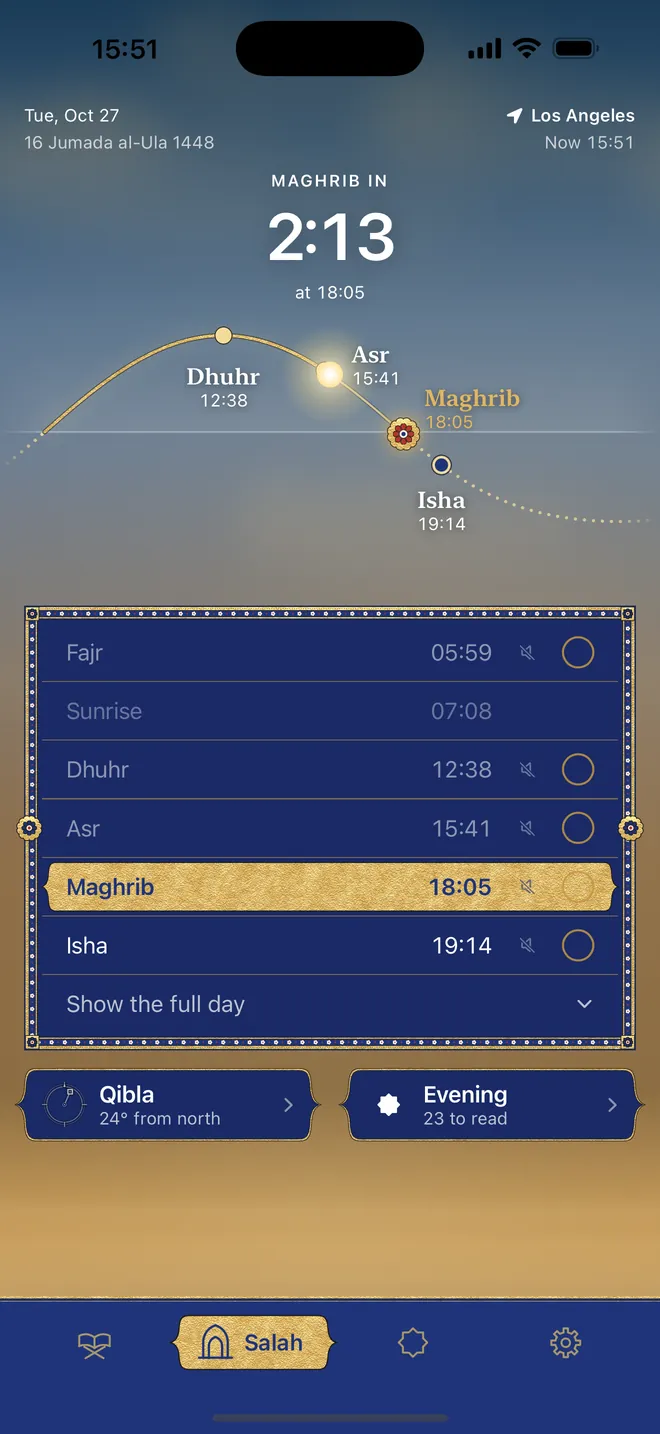
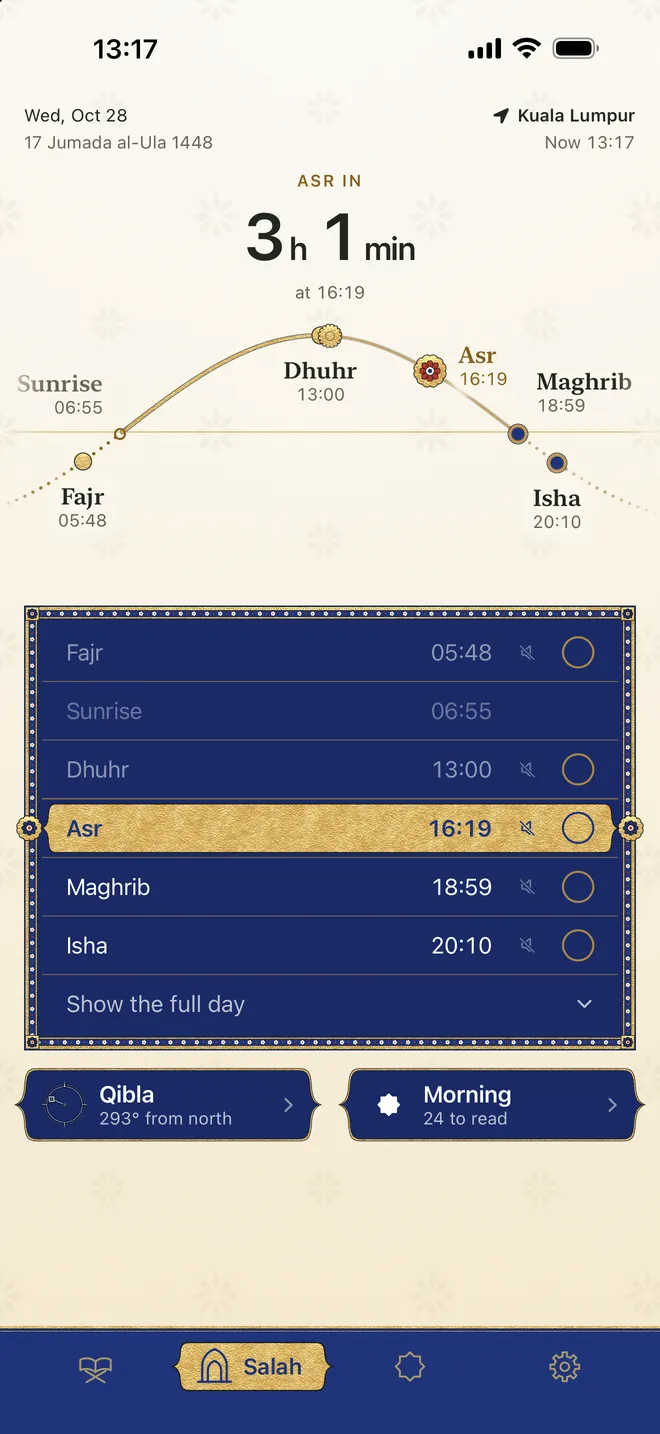
The site takes the store kit's 4.0 reshoot
The screens from the store kit's reshoot of 27 October (feature/illuminated-
store, after 90a4d4f8): the calmer Quran tab in Light and Dark, Al-Fatihah,
Al-Mulk with Repeat, Salah in Kuala Lumpur with no sky, the qibla on paper,
Dua, and the Indopak opening in its Mughal painting, back beside Al-Baqarah.
The open iPhone Duo is now the Duo set's Indopak opening, cut to the screen's
corners, as WebP only (a PNG behind it was 2.4 MB). Alt texts follow the new
pictures; the share card is rendered again from the new Al-Fatihah screen.

Still a stand-in: the pen on iPad (3.2), until there is a 4.0 iPad shot with
the pen out; export_assets.py keeps the old one when there is none.

diff --git a/index.html b/index.html
@@ -144,11 +144,11 @@
       <div class="media two reveal later">
         <picture>
           <source srcset="assets/shots/quran-day.webp" type="image/webp">
-          <img class="phone" src="assets/shots/quran-day.jpg" width="660" height="1434" alt="The Quran tab in Light: Continue with Al-Baqarah, the surahs read lately, and each surah with its own painting" loading="lazy" decoding="async">
+          <img class="phone" src="assets/shots/quran-day.jpg" width="660" height="1434" alt="The Quran tab in Light: Continue with Al-Baqarah on a deep blue panel with Listen and Repeat, the surahs read lately as four round paintings, and the list of surahs" loading="lazy" decoding="async">
         </picture>
         <picture>
           <source srcset="assets/shots/quran-night.webp" type="image/webp">
-          <img class="phone" src="assets/shots/quran-night.jpg" width="660" height="1434" alt="The Quran tab in Dark, deep blue and gold: Continue with Al-Mulk, the surahs read lately, and the list of surahs" loading="lazy" decoding="async">
+          <img class="phone" src="assets/shots/quran-night.jpg" width="660" height="1434" alt="The Quran tab in Dark, deep blue and gold: Continue with Al-Baqarah, the surahs read lately, and the list of surahs" loading="lazy" decoding="async">
         </picture>
       </div>
     </div>
@@ -232,13 +232,15 @@
           <li>19 translations in 17 languages, and a short tafsir for every ayah in 9 languages. Press and hold a word to see what it means.</li>
         </ul>
       </div>
-      <div class="media one reveal later">
+      <div class="media two reveal later">
         <picture>
           <source srcset="assets/shots/baqarah.webp" type="image/webp">
           <img class="phone" src="assets/shots/baqarah.jpg" width="660" height="1434" alt="The opening of Al-Baqarah on page 2, its first five ayat in a clean oval inside a painted gold and blue page" loading="lazy" decoding="async">
         </picture>
-        <!-- The Indopak page in its Mughal painting goes beside it (shots/indopak)
-             once the store kit has shot it from the 4.0 build. -->
+        <picture>
+          <source srcset="assets/shots/indopak.webp" type="image/webp">
+          <img class="phone" src="assets/shots/indopak.jpg" width="660" height="1434" alt="The opening of Al-Baqarah in the Indopak 15-line mushaf, in the printed book's own calligraphy, framed in a Mughal painting of red, gold and blue flowers" loading="lazy" decoding="async">
+        </picture>
       </div>
     </div>
   </section>
@@ -260,11 +262,11 @@
       <div class="media two reveal later">
         <picture>
           <source srcset="assets/shots/salah.webp" type="image/webp">
-          <img class="phone" src="assets/shots/salah.jpg" width="660" height="1434" alt="The Salah tab in Los Angeles: Maghrib in 2 hours 13 minutes, the path of the sun through the day, and the prayer times" loading="lazy" decoding="async">
+          <img class="phone" src="assets/shots/salah.jpg" width="660" height="1434" alt="The Salah tab in Kuala Lumpur: Asr in 3 hours 1 minute, the path of the sun through the day in gold, and the prayer times" loading="lazy" decoding="async">
         </picture>
         <picture>
           <source srcset="assets/shots/qibla.webp" type="image/webp">
-          <img class="phone" src="assets/shots/qibla.jpg" width="660" height="1434" alt="The qibla as a gold and lapis astrolabe: You are facing the Qibla, 49 degrees from north, 11,150 km to Makkah" loading="lazy" decoding="async">
+          <img class="phone" src="assets/shots/qibla.jpg" width="660" height="1434" alt="The qibla as a gold and blue astrolabe: You are facing the Qibla, 293 degrees from north, 6,970 km to Makkah" loading="lazy" decoding="async">
         </picture>
       </div>
     </div>
@@ -308,8 +310,7 @@
         and again to hide them. The surah list and the meaning open beside the page.</p>
       </div>
       <picture class="reveal later">
-        <source srcset="assets/shots/duo-spread.webp" type="image/webp">
-        <img class="duo" src="assets/shots/duo-spread.png" width="1920" height="1351" alt="An open iPhone Duo with pages 1 and 2 side by side: Al-Fatihah on the right and the start of Al-Baqarah on the left" loading="lazy" decoding="async">
+        <img class="duo" src="assets/shots/duo-spread.webp" width="1920" height="1351" alt="An open iPhone Duo with the first two Indopak pages side by side, painted in the Mughal style: Al-Fatihah on the right and the opening of Al-Baqarah on the left" loading="lazy" decoding="async">
       </picture>
       <p class="spread-note">Closed, the iPhone Duo shows one page, like any iPhone.</p>
     </div>

diff --git a/tools/export_assets.py b/tools/export_assets.py
@@ -34,7 +34,7 @@ PARTS = set(sys.argv[1:]) or {"screens", "art", "icons"}
 # and the 4.0 wide shots the store kit is to make: the open Duo's first two
 # pages, and a page on the iPad with the pen out.
 DUO_MASK = "/Library/Developer/CoreSimulator/Profiles/DeviceTypes/iPhone Duo.simdevicetype/Contents/Resources/BF0DC480-5EE2-4EC1-B02B-C75E94759832.pdf"
-DUO = f"{SHOTS}/duo-inner/pad_spread.png"
+DUO = f"{SHOTS}/duo-inner/pad_indopak.png"   # the Mughal Indopak opening, the 4.0 Duo set's spread
 PEN = f"{SHOTS}/ipad/pad_pen.png"
 
 for d in ("shots", "art", "img"):
@@ -64,6 +64,7 @@ SCREENS = {
     "06_salah": "salah", "07_qibla": "qibla", "08_dua": "dua",
     "04_indopak": "indopak",
 }
+# 15_opening2 (Al-Baqarah) was shot from 4.0 (36) and is still the store kit's.
 if "screens" in PARTS:
     print("screens (2x for a 330pt phone)")
     for src, dst in SCREENS.items():
@@ -85,12 +86,15 @@ if "wide" in PARTS:
         mask = Image.open(f"{tmp}/mask.png").getchannel("A")
     im.putalpha(mask.resize((im.height, im.width), Image.LANCZOS).rotate(90, expand=True))
     im = fit_width(im, 1920)
+    # WebP only: a PNG of this, for browsers without WebP, would be 2.4 MB
     save_webp(im, f"{SITE}/shots/duo-spread.webp", 82)
-    save_png(im, f"{SITE}/shots/duo-spread.png")
-    print("pen (2x for a 380pt column)")
-    im = fit_width(Image.open(PEN).convert("RGB"), 760)
-    save_webp(im, f"{SITE}/shots/pen.webp", 82)
-    im.save(f"{SITE}/shots/pen.png", optimize=True)
+    if os.path.exists(PEN):
+        print("pen (2x for a 380pt column)")
+        im = fit_width(Image.open(PEN).convert("RGB"), 760)
+        save_webp(im, f"{SITE}/shots/pen.webp", 82)
+        im.save(f"{SITE}/shots/pen.png", optimize=True)
+    else:
+        print(f"  no pen shot yet at {PEN}: shots/pen stays as it is")
 
 # ---- art -----------------------------------------------------------------
 PAPER = np.array([249, 245, 235], float)   # the banner's paper

diff --git a/README.md b/README.md
@@ -156,19 +156,13 @@ no reviews yet. Apple's public feed shows a storefront's reviews:
 Before the day:
 
 1. Wait for the store session's final 4.0 shots (it reshoots every set once
-   iPhone, iPad, Duo, Android and Indopak have all landed). These pictures
-   on this branch are stand-ins until then:
-   - `shots/quran-day` and `shots/quran-night`: the Quran tab before the calmer
-     tab (lapis Continue plate, round Recently read).
-   - `shots/salah`: the Salah tab still with its sky; 4.0 has none (paper by
-     day, lapis by night, the sun's path in gold).
-   - The Indopak page: the old picture is off the page. Once the Mughal
-     Indopak page is shot, put `shots/indopak` back beside Al-Baqarah in the
-     Mushaf band (the comment there marks the place) and make it `media two`.
-   - `shots/duo-spread` and `shots/pen`: the 3.2 look.
-   No picture here shows the Madina page at night (lapis in 4.0).
-   Then run `python3 tools/export_assets.py screens wide` (for `wide`, the
-   iPad pen shot must be at `AppStore/shots/ipad/pad_pen.png`, or change `PEN`).
+   iPhone, iPad, Duo, Android and Indopak have all landed). On 28 October
+   the site took the store kit's reshoot of 27 October (the calmer Quran tab,
+   the Mughal Indopak page, Salah with no sky, the open Duo on the Indopak
+   opening). One picture is still a stand-in: `shots/pen`, the 3.2 look, until
+   there is a 4.0 iPad shot with the pen out.
+   Then run `python3 tools/export_assets.py screens wide` (for the pen, the
+   iPad shot must be at `AppStore/shots/ipad/pad_pen.png`, or change `PEN`).
    If the Al-Fatihah screen changed, render the share card again
    (`og-render.html`).
 2. Read the page against the 4.0 build: every claim must be true of the build
